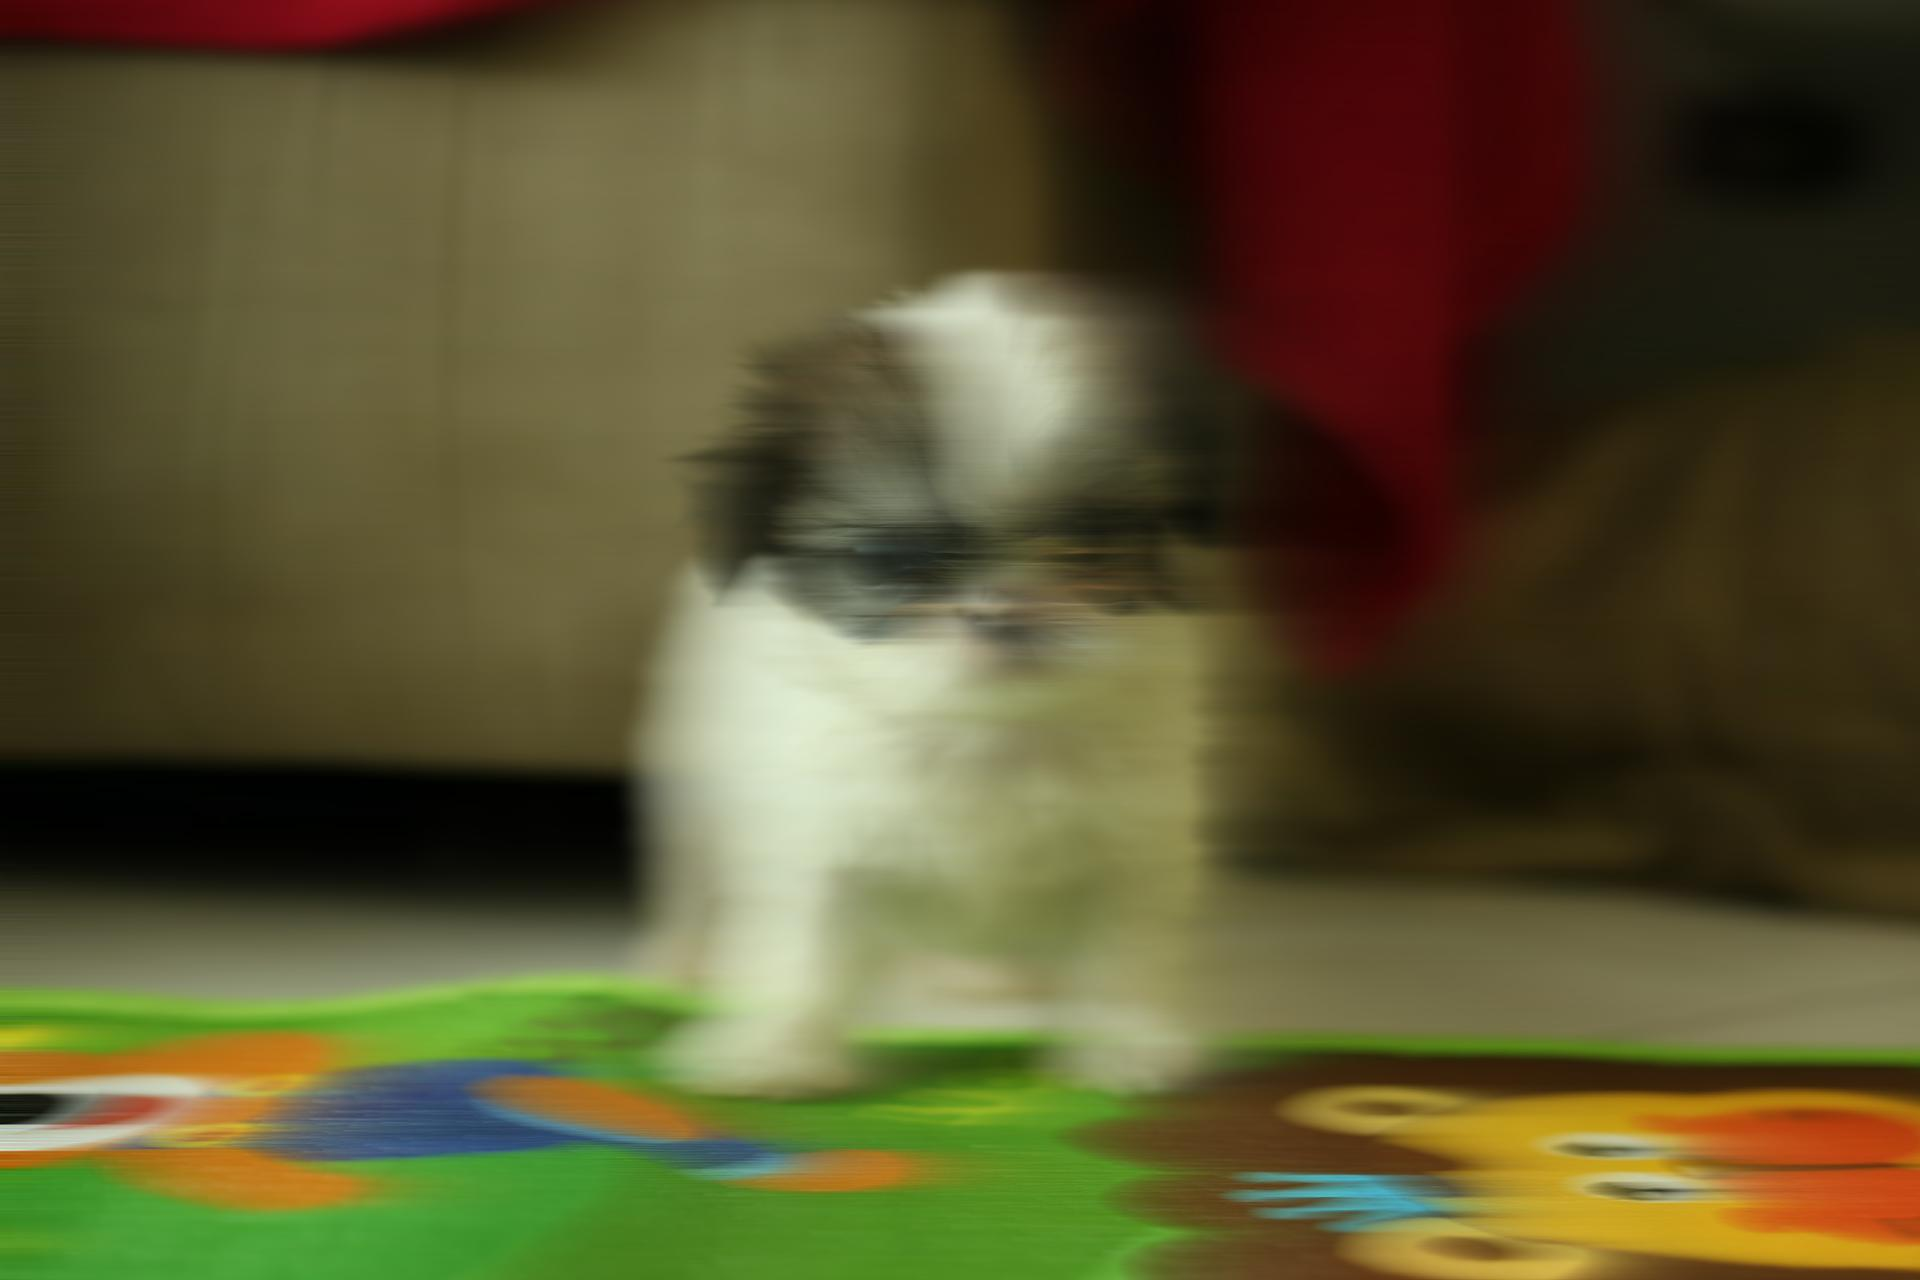
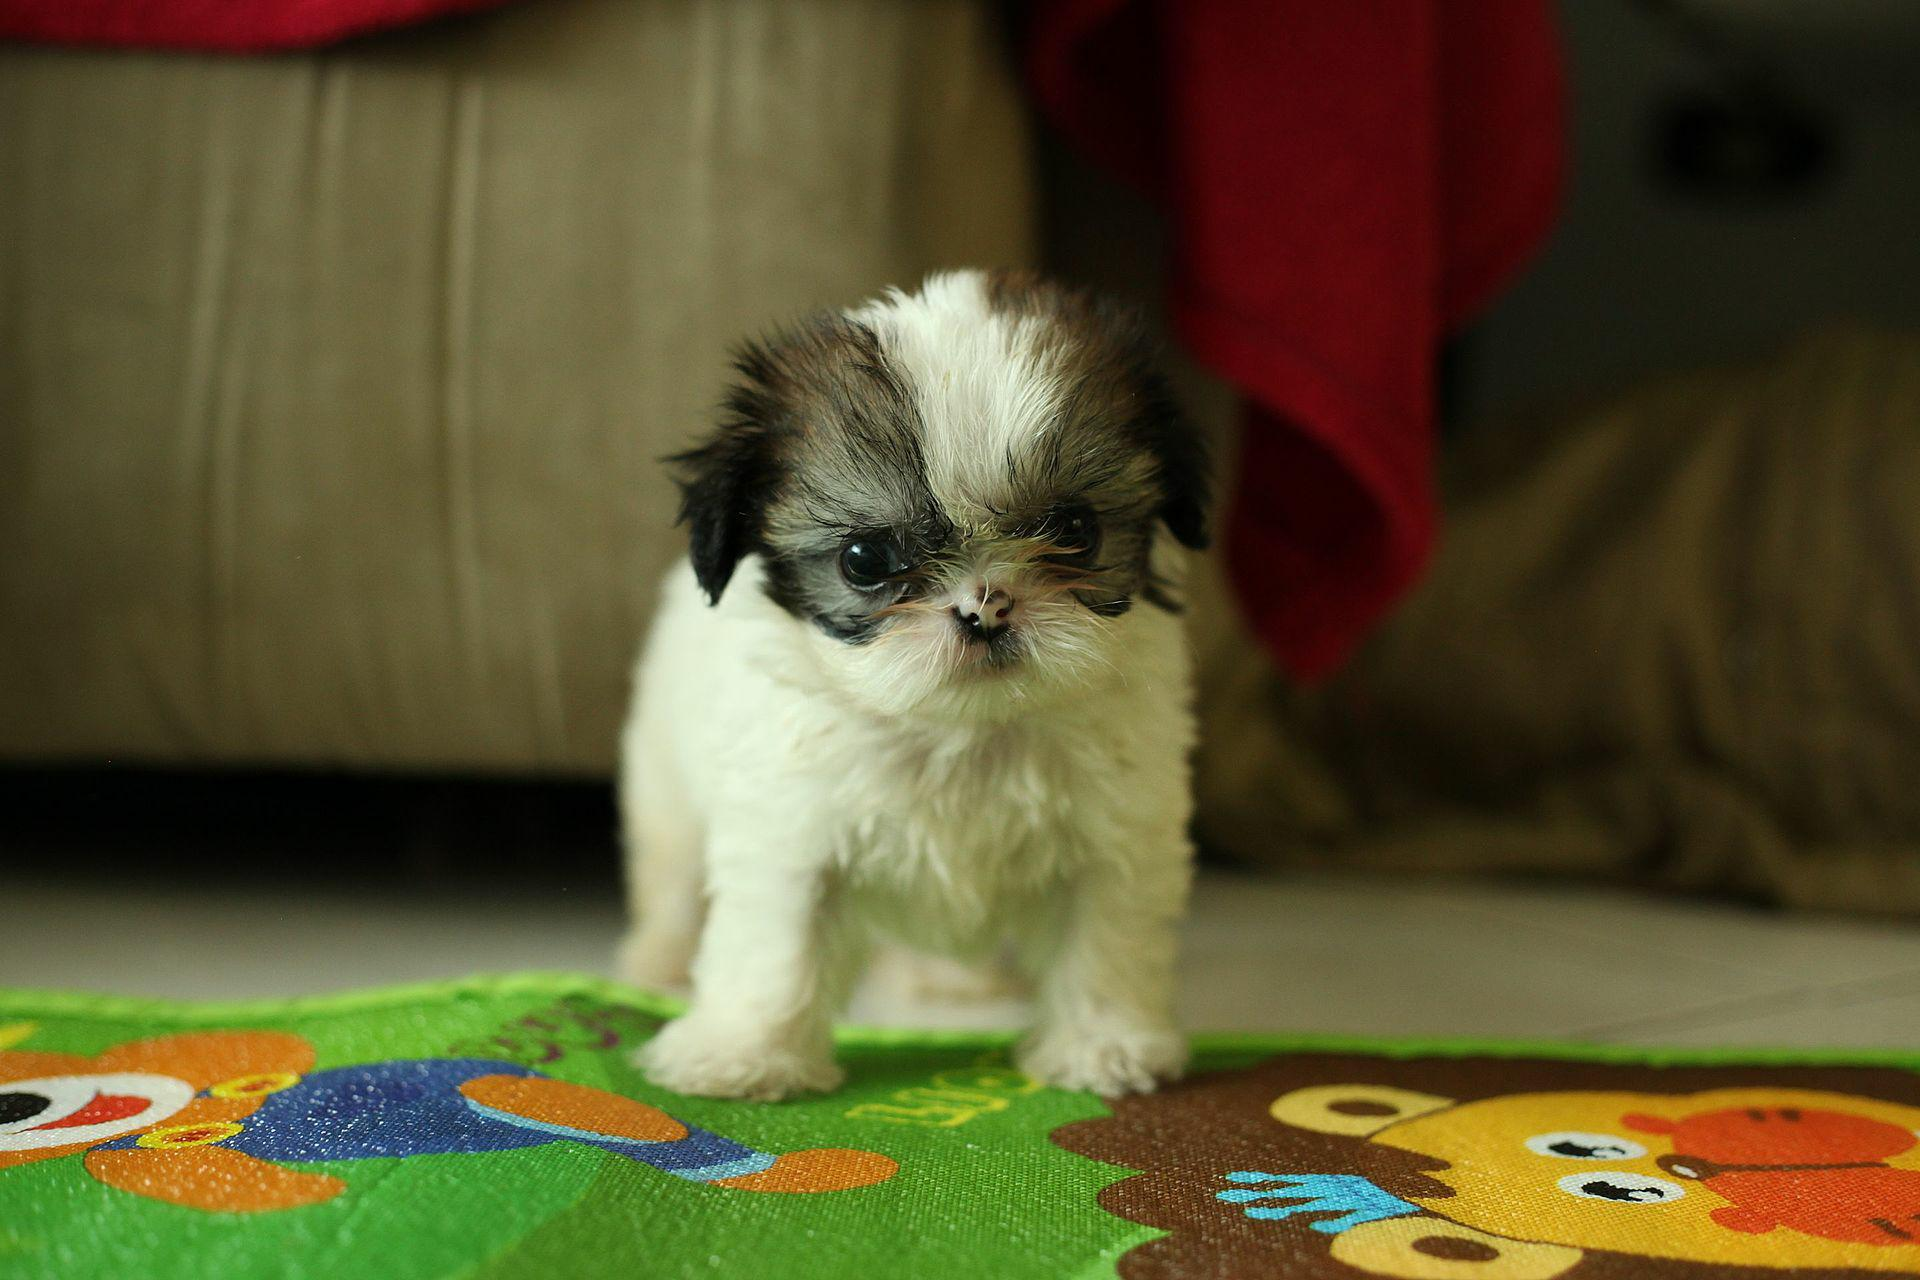
Funcionando

diff --git a/src/thread.c b/src/thread.c
@@ -12,7 +12,7 @@ pthread_t worker1, worker2, worker3;
 imagem img;
 
 int main() {
-       img = abrir_imagem("data/cachorro.jpg");
+	img = abrir_imagem("data/cachorro.jpg");
 
 	pthread_t worker1, worker2, worker3;
 	void *a1 = malloc(sizeof(float*)); 
@@ -26,7 +26,11 @@ int main() {
 	pthread_create(&(worker2), NULL, blur, a2);
 	pthread_create(&(worker3), NULL, blur, a3);
 
-        salvar_imagem("cachorro-out.jpg", &img);
+	pthread_join(worker1, NULL);
+	pthread_join(worker2, NULL);
+	pthread_join(worker3, NULL);
+
+        salvar_imagem("cachorro-thread.jpg", &img);
         liberar_imagem(&img);
         return 0;
 }
@@ -34,11 +38,15 @@ int main() {
 
 void *blur(void *arg){
 	float alpha = 0.98;
+	float* matriz = malloc(sizeof(float)*img.height*img.width);
+	memcpy(matriz, arg, (sizeof(float)*img.height*img.width));
         for (int i = 0; i<(img.width); i++){
                 for (int j =0; j<(img.height); j++){
                         if (i!=0) {
-                               arg[j*img.width + i] = (1-alpha)*arg[j*img.width + i] +(alpha)*arg[j*img.width + i -1];
+                               matriz[j*img.width + i] = (1-alpha)*matriz[j*img.width + i] +(alpha)*matriz[j*img.width + i -1];
                         }
-                }
-        }
+	((float*)arg)[j*img.width+i] = matriz[j*img.width + i];
+		}
+	}
 }
+
